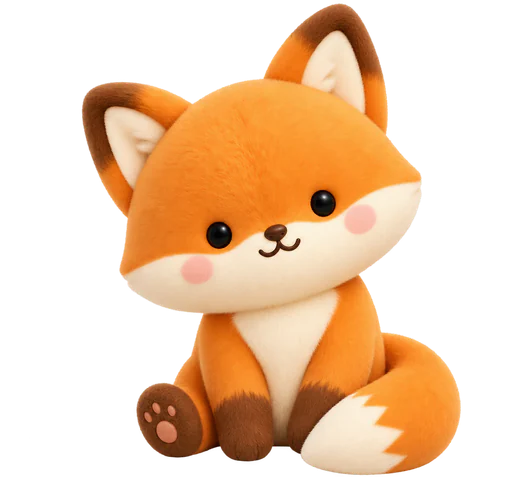
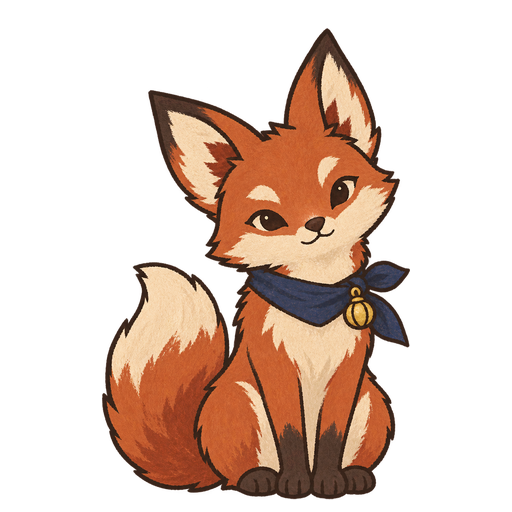
Refresh Lantern Alley character artwork

diff --git a/home-pets.js b/home-pets.js
@@ -1,0 +1,75 @@
+/* Home pet catalogue and ownership rules.
+ *
+ * The animation modules decide how each companion moves. This module only
+ * owns shop facts and immutable purchase/grant operations so a repeated tap
+ * can never charge twice.
+ */
+(function(root){
+  "use strict";
+
+  var PETS = [
+    {id:"cat", name:"Calico cat", price:1200,
+      preview:"assets/home/pet/calico-sit-v1.png"},
+    {id:"bird", name:"Bush warbler", price:700,
+      preview:"assets/home/pet/uguisu-perch-v1.png"}
+  ];
+
+  function copy(value){
+    return JSON.parse(JSON.stringify(value));
+  }
+
+  function get(id){
+    var pet = PETS.filter(function(item){ return item.id === id; })[0];
+    return pet ? copy(pet) : null;
+  }
+
+  function normalizeOwned(value){
+    var seen = {};
+    return (Array.isArray(value) ? value : []).filter(function(id){
+      if(!get(id) || seen[id]) return false;
+      seen[id] = true;
+      return true;
+    });
+  }
+
+  function owns(ownedPets, id){
+    return normalizeOwned(ownedPets).indexOf(id) >= 0;
+  }
+
+  function unchanged(ownedPets, money, reason){
+    return {
+      ok:false,
+      reason:reason,
+      ownedPets:normalizeOwned(ownedPets),
+      money:Math.max(0, Number(money) || 0)
+    };
+  }
+
+  function buy(ownedPets, money, id){
+    var pet = get(id);
+    var wallet = Math.max(0, Number(money) || 0);
+    if(!pet) return unchanged(ownedPets, wallet, "missing");
+    if(owns(ownedPets, id)) return unchanged(ownedPets, wallet, "owned");
+    if(wallet < pet.price) return unchanged(ownedPets, wallet, "poor");
+    var next = normalizeOwned(ownedPets);
+    next.push(id);
+    return {ok:true, reason:null, ownedPets:next, money:wallet - pet.price};
+  }
+
+  function grant(ownedPets, id){
+    if(!get(id)) return {ok:false, reason:"missing", ownedPets:normalizeOwned(ownedPets)};
+    if(owns(ownedPets, id)) return {ok:false, reason:"owned", ownedPets:normalizeOwned(ownedPets)};
+    var next = normalizeOwned(ownedPets);
+    next.push(id);
+    return {ok:true, reason:null, ownedPets:next};
+  }
+
+  root.LanternHomePets = Object.freeze({
+    catalogue:function(){ return copy(PETS); },
+    get:get,
+    normalizeOwned:normalizeOwned,
+    owns:owns,
+    buy:buy,
+    grant:grant
+  });
+})(typeof self !== "undefined" ? self : this);

diff --git a/entrance-stage-logic.js b/entrance-stage-logic.js
@@ -45,9 +45,9 @@
   function getHappyMouthStyle(){
     return {
       left:"50%",
-      top:"53%",
-      borderRadius:"50% 50% 64% 64% / 34% 34% 76% 76%",
-      background:"radial-gradient(ellipse at 50% 84%, #c97872 0 24%, transparent 28%), radial-gradient(ellipse at 50% 38%, #7a4338 0%, #4d2825 56%, #2a1517 100%)"
+      top:"48%",
+      borderRadius:"48% 52% 56% 44% / 42% 42% 58% 58%",
+      background:"#633529"
     };
   }
 

diff --git a/CHANGELOG.md b/CHANGELOG.md
@@ -5,6 +5,41 @@ Every change and the reason for it, newest first. Lifted out of PROJECT-HANDOFF.
 **This is the "why" archive.** When something looks wrong, search here before changing it - most of the odd-looking decisions in this project are load-bearing and the entry says what broke last time. What the project currently is, and what is left to do, are in PROJECT-HANDOFF.md.
 
 **Adding an entry:** newest at the top, as a `###` heading. A `##` heading makes a new section of this document, which is not what a change note is.
+### 2026-09-15 - Matte learner sprite sheets (v368)
+
+Restyled the first two learner character sheets in the same muted gouache
+direction as Kon while keeping the four-pose order, transparent masks, and
+1200x600 sprite geometry unchanged. The cache stamp is v368. No audio files
+changed.
+
+### 2026-09-15 - Illustrated Kon pose set (v367)
+
+Replaced Kon's glossy plush pose pack with one constrained gouache-and-ink
+character system: a common color palette, deliberate silhouette, matte eyes,
+and matching neckerchief and lantern charm across every entrance pose. Every
+production file now uses the same transparent 512px canvas and shared foot
+baseline, so pose changes do not shift Kon up or down.
+
+The speaking mouth now uses a small flat ink shape placed on the new
+mouthless base rather than a shaded rendered mouth. No audio files changed.
+
+Cache is v367.
+
+### 2026-09-15 - Home pet shop and matched yard controls (v366)
+
+The Home menu now opens a dedicated pet shelf where the calico cat and bush
+warbler can be purchased with earned yen. Ownership and the active companion
+are saved separately, a purchase cannot charge twice, and an owned pet can be
+selected again without another payment. The final Moonview Inn reward still
+grants the cat for free.
+
+Existing v365 saves keep every companion they could already use. The yard's
+More control now has the same footprint as the surrounding Home controls, and
+both rooms continue to use the same storage-card component. The pet catalogue
+and its previews are included in the offline shell. No audio files changed.
+
+Cache is v366.
+
 ### 2026-09-15 - The home has a bird companion (v365)
 
 Added an animated Japanese bush warbler with six production sprite sheets:
